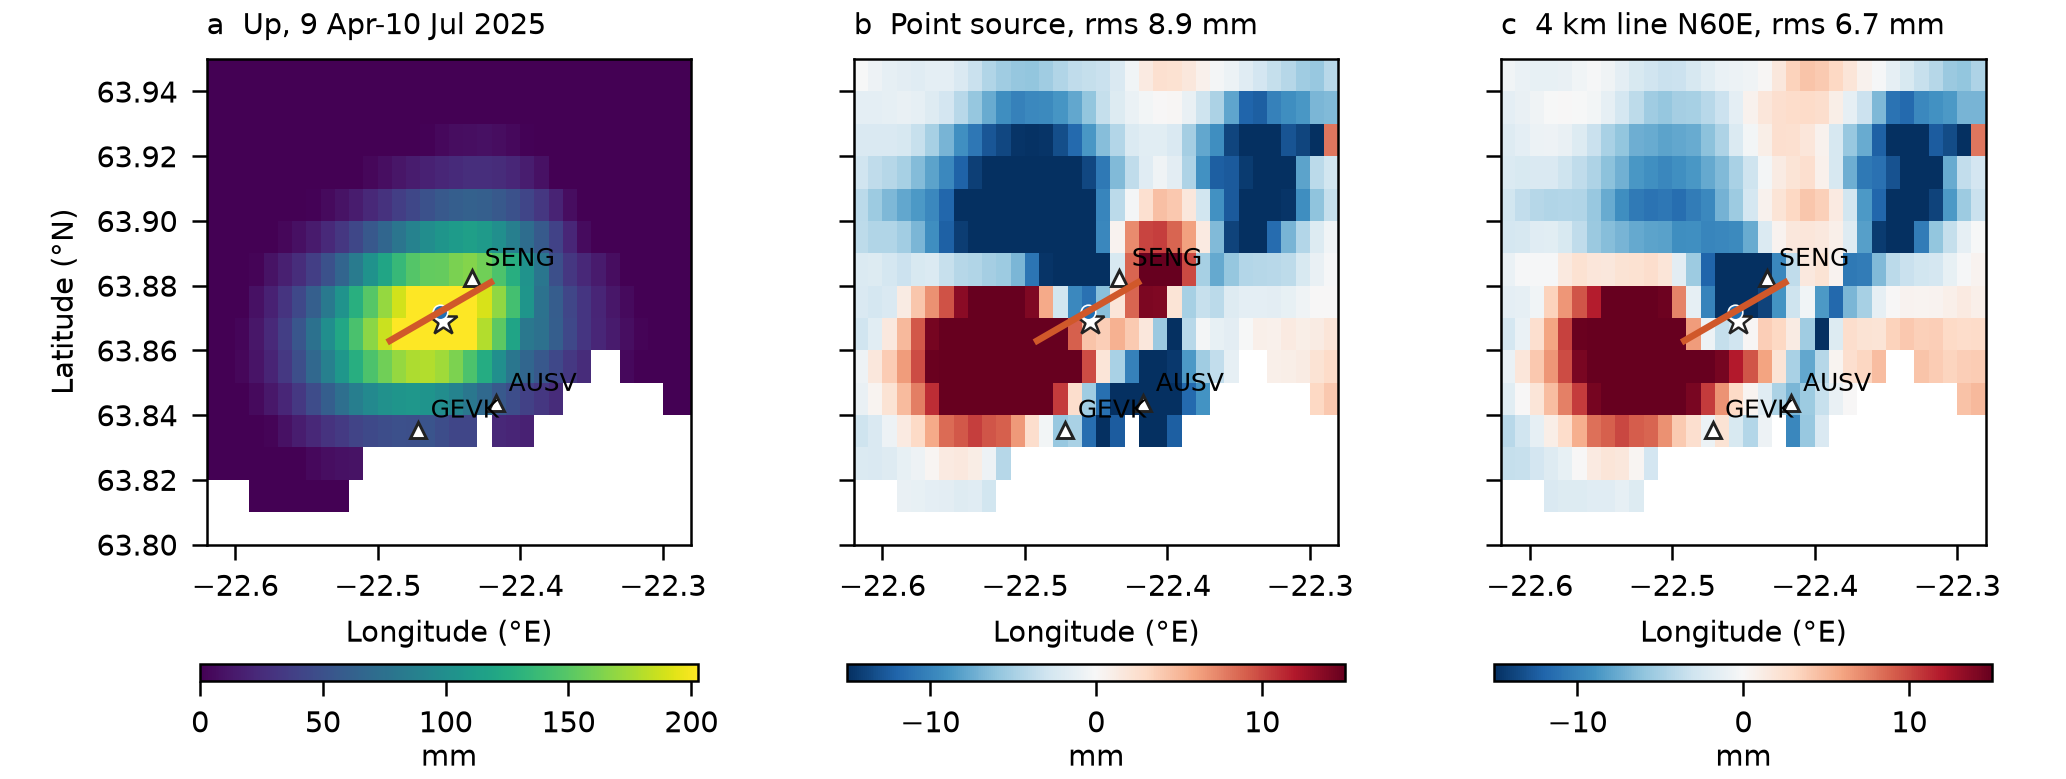
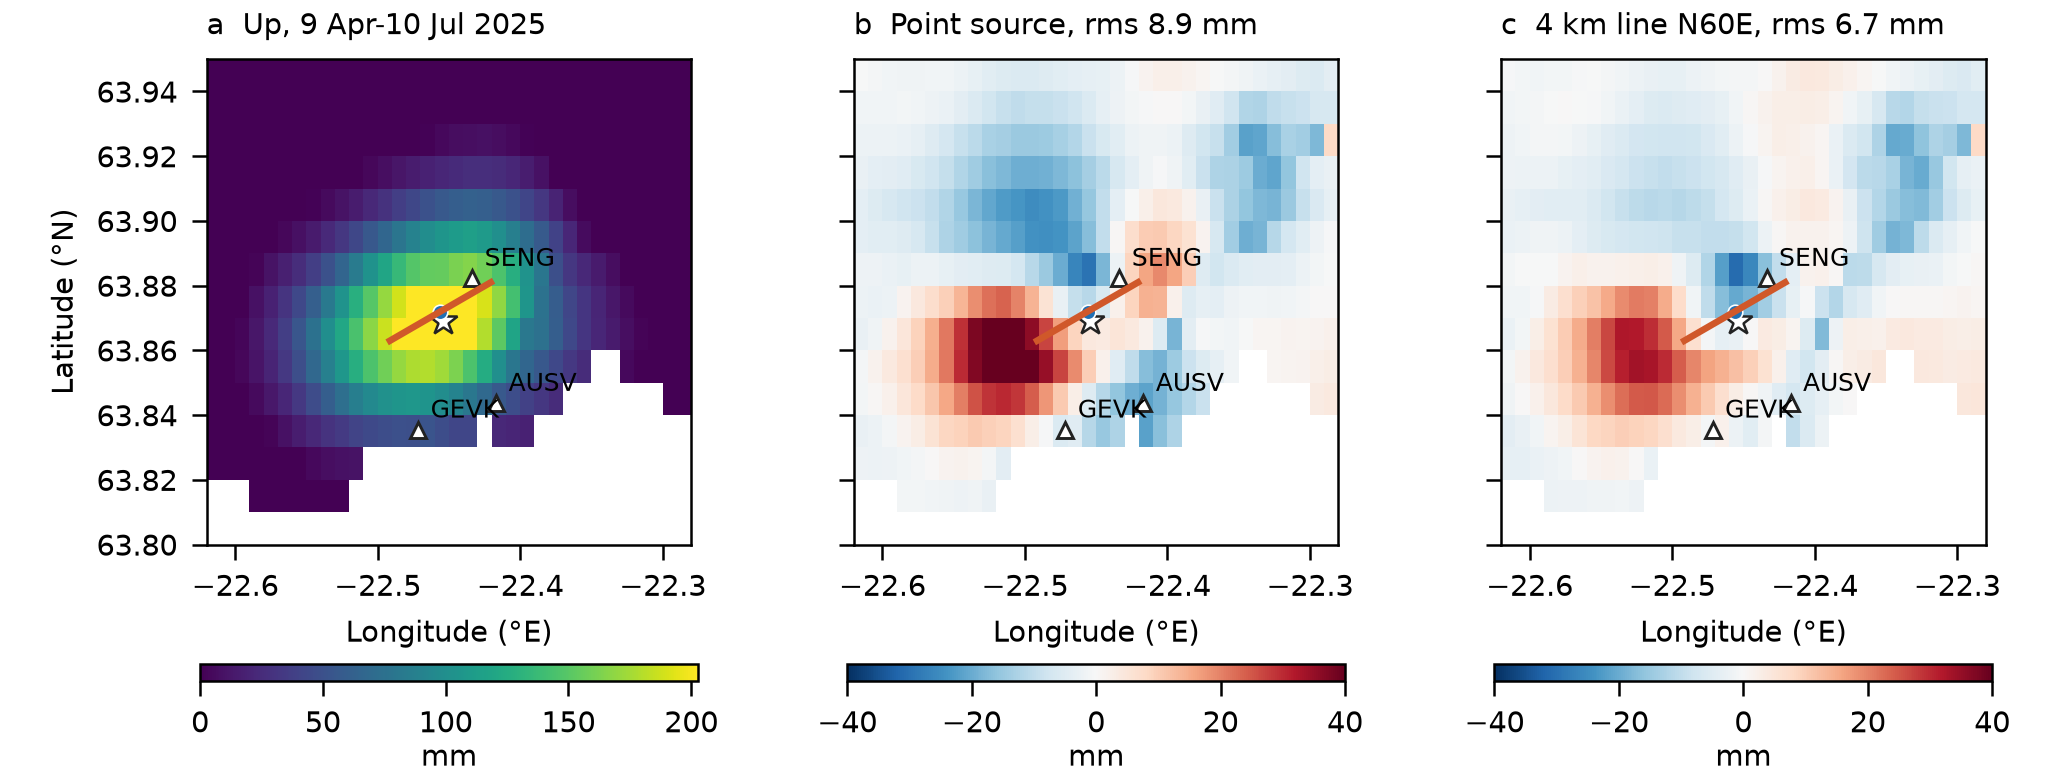
GNSS and InSAR agree at the stations; residual lobe size corrected
gnss_insar_consistency.py: LOS difference SENG minus GEVK/AUSV from InSAR is 0.95 (0.70-1.16)
times the GNSS one over 11 track windows, so the station dependence is a model property.
The WSW residual uplift lobe is 46 mm (point) / 34 mm (4 km line), not ~15 mm; the line
over-predicts at SENG by 17 mm. Fig. 1 residual scale widened to +-40 mm. Logged in corrections.

diff --git a/scripts/gnss_insar_consistency.py b/scripts/gnss_insar_consistency.py
@@ -1,0 +1,70 @@
+"""Do GNSS and InSAR agree at the stations? A check that the station dependence of the volume is not a GNSS artefact.
+
+For every radar window and track, the GNSS displacement over the exact chain dates (1-day means at both ends) is
+projected onto the line of sight at the station, and compared with the median chained LOS of the pixels within 350 m.
+The InSAR datum is arbitrary per chain, so the comparison uses differences between stations (SENG - GEVK,
+SENG - AUSV), where the datum cancels. Absolute values are written too, for reference only.
+    python -I scripts/gnss_insar_consistency.py -> docs/data/gnss_insar_consistency.csv
+"""
+import sys
+from pathlib import Path
+
+import numpy as np
+import pandas as pd
+import rasterio
+
+sys.path.insert(0, str(Path(__file__).resolve().parent))
+import network_volume as N  # noqa: E402
+import svartsengi_joint as J  # noqa: E402
+from ivwlib import window_mean  # noqa: E402
+
+ROOT = Path(__file__).resolve().parents[1]
+SITES = ("SENG", "AUSV", "GEVK")
+
+
+def near(arr, tr, lon, lat, r_m=350.0):
+    rows, cols = np.mgrid[0:arr.shape[0], 0:arr.shape[1]]
+    xs, ys = rasterio.transform.xy(tr, rows.ravel(), cols.ravel())
+    xs, ys = np.asarray(xs).reshape(arr.shape), np.asarray(ys).reshape(arr.shape)
+    d = np.hypot((xs - lon) * 111320 * np.cos(np.radians(lat)), (ys - lat) * 111130)
+    v = arr[(d <= r_m) & np.isfinite(arr)]
+    return (float(np.median(v)), int(v.size)) if v.size else (np.nan, 0)
+
+
+def main():
+    gc = N.load_clean()
+    rows = []
+    for w in J.CFG["windows"]:
+        for f in J.CFG["frames"]:
+            names = J.chain(f, w["start"], w["end"])
+            if len(names) < 2:
+                continue
+            los, tr = J.chained_los(f, names)
+            unit = {k: J.read(J.RAW / f / "meta" / f"{k}.tif")[0] for k in "ENU"}
+            t0, t1 = J.pdate(names[0].split("_")[0]), J.pdate(names[-1].split("_")[1])
+            v = {}
+            for s in SITES:
+                a, b = window_mean(gc[s], t0, 1), window_mean(gc[s], t1, 1)
+                if a is None or b is None:
+                    continue
+                lo, la = gc[s].attrs["lon"], gc[s].attrs["lat"]
+                u = {k: near(unit[k], tr, lo, la)[0] for k in "ENU"}
+                g = b - a
+                ins, npx = near(los, tr, lo, la)
+                v[s] = (g.e * u["E"] + g.n * u["N"] + g.u * u["U"], ins, npx)
+            for o in ("GEVK", "AUSV"):
+                if "SENG" in v and o in v:
+                    gd, idf = v["SENG"][0] - v[o][0], v["SENG"][1] - v[o][1]
+                    rows.append(dict(window=f"{w['interval']} {w['start']}", frame=f, start=t0.date(), end=t1.date(),
+                                     pair=f"SENG-{o}", gnss_los_mm=round(gd, 1), insar_los_mm=round(idf, 1),
+                                     ratio_insar_over_gnss=round(idf / gd, 3), seng_gnss_abs=round(v["SENG"][0], 1),
+                                     seng_insar_abs=round(v["SENG"][1], 1), n_pixels=min(v["SENG"][2], v[o][2])))
+    df = pd.DataFrame(rows)
+    df.to_csv(ROOT / "docs" / "data" / "gnss_insar_consistency.csv", index=False)
+    print(df.to_string(index=False))
+    print("median ratio", df.ratio_insar_over_gnss.median(), "range", df.ratio_insar_over_gnss.min(),
+          df.ratio_insar_over_gnss.max())
+
+
+if __name__ == "__main__":
+    main()

diff --git a/scripts/paper_figures.py b/scripts/paper_figures.py
@@ -85,8 +85,8 @@ def fig1(gn):
     fig, axs = plt.subplots(1, 3, figsize=(175 * MM, 66 * MM), sharey=True, constrained_layout=True)
     box = (-22.62, -22.28, 63.80, 63.95)
     panels = ((df.u.values, "a  Up, 9 Apr-10 Jul 2025", "viridis", (0, np.nanpercentile(df.u, 99))),
-              (r_pt, f"b  Point source, rms {rms_pt:.1f} mm", "RdBu_r", (-15, 15)),
-              (r_ln, f"c  4 km line N60E, rms {rms_ln:.1f} mm", "RdBu_r", (-15, 15)))
+              (r_pt, f"b  Point source, rms {rms_pt:.1f} mm", "RdBu_r", (-40, 40)),
+              (r_ln, f"c  4 km line N60E, rms {rms_ln:.1f} mm", "RdBu_r", (-40, 40)))
     ix = np.floor((df.lon.values + 22.75) / 0.01 + 1e-6).astype(int)
     iy = np.floor((df.lat.values - 63.80) / 0.01 + 1e-6).astype(int)
     xe = -22.75 + 0.01 * np.arange(ix.max() + 2)

diff --git a/README.md b/README.md
@@ -199,8 +199,12 @@ GPS + radar with the correlated InSAR covariance in each window.
   best line in the five windows.
 - A wider search (`scripts/elongated_centre_check.py`, `docs/data/elongated_centre_check.csv`; centre ±1.4 km,
   strikes N30-105E) finds the same centre, strike, depth and volumes in all three two-track windows.
-- The line does not fit everything: in the up field of Apr-Jul 2025 an uplift lobe of up to ~15 mm west-south-west
-  of the source remains with both models (Fig. 1c below), and the line now over-predicts at SENG by about 10 mm.
+- The line does not fit everything: in the up field of Apr-Jul 2025 (peak uplift ~200 mm) an uplift lobe
+  west-south-west of the source remains with both models, up to 46 mm with the point source and 34 mm with the 4 km
+  line (Fig. 1 below), and the line over-predicts at SENG by about 17 mm (point source: 2 mm).
+- GNSS and radar agree at the stations (`scripts/gnss_insar_consistency.py`, `docs/data/gnss_insar_consistency.csv`):
+  the line-of-sight difference SENG minus GEVK or AUSV from InSAR is 0.95 times the GNSS one (median of 11 track
+  windows; 0.70-1.16). The station dependence is therefore a property of the model, not of a faulty station.
 - Not tested: an exact spheroid, a dipping body, or a time-varying shape; the 2026 window has the ascending track only.
 
 ![up field and residuals](docs/img/paper/fig1_up_field_residuals.png)

diff --git a/docs/corrections.md b/docs/corrections.md
@@ -5,6 +5,15 @@ Numbers come from the files named; rerun the scripts listed in [method.md](metho
 
 ## 2026-11-16
 
+### Residual uplift lobe: "up to ~15 mm" was a saturated colour scale
+
+**Was (523ccf6, README):** "an uplift lobe of up to ~15 mm west-south-west of the source remains with both models,
+and the line now over-predicts at SENG by about 10 mm". Both numbers were read off Fig. 1, whose residual colour scale
+stopped at ±15 mm.
+
+**Now:** computed from the residuals: the lobe reaches 46 mm with the point source and 34 mm with the 4 km line
+(peak uplift ~200 mm), and the line over-predicts at SENG by 17 mm (point source 2 mm). The figure scale is now ±40 mm.
+
 ### "1.2 times the published volumes = a source-model difference" was wrong
 
 **Was (8412fd0, README and private draft):** our absolute volumes (accumulated and per event) are about 1.2 times the
